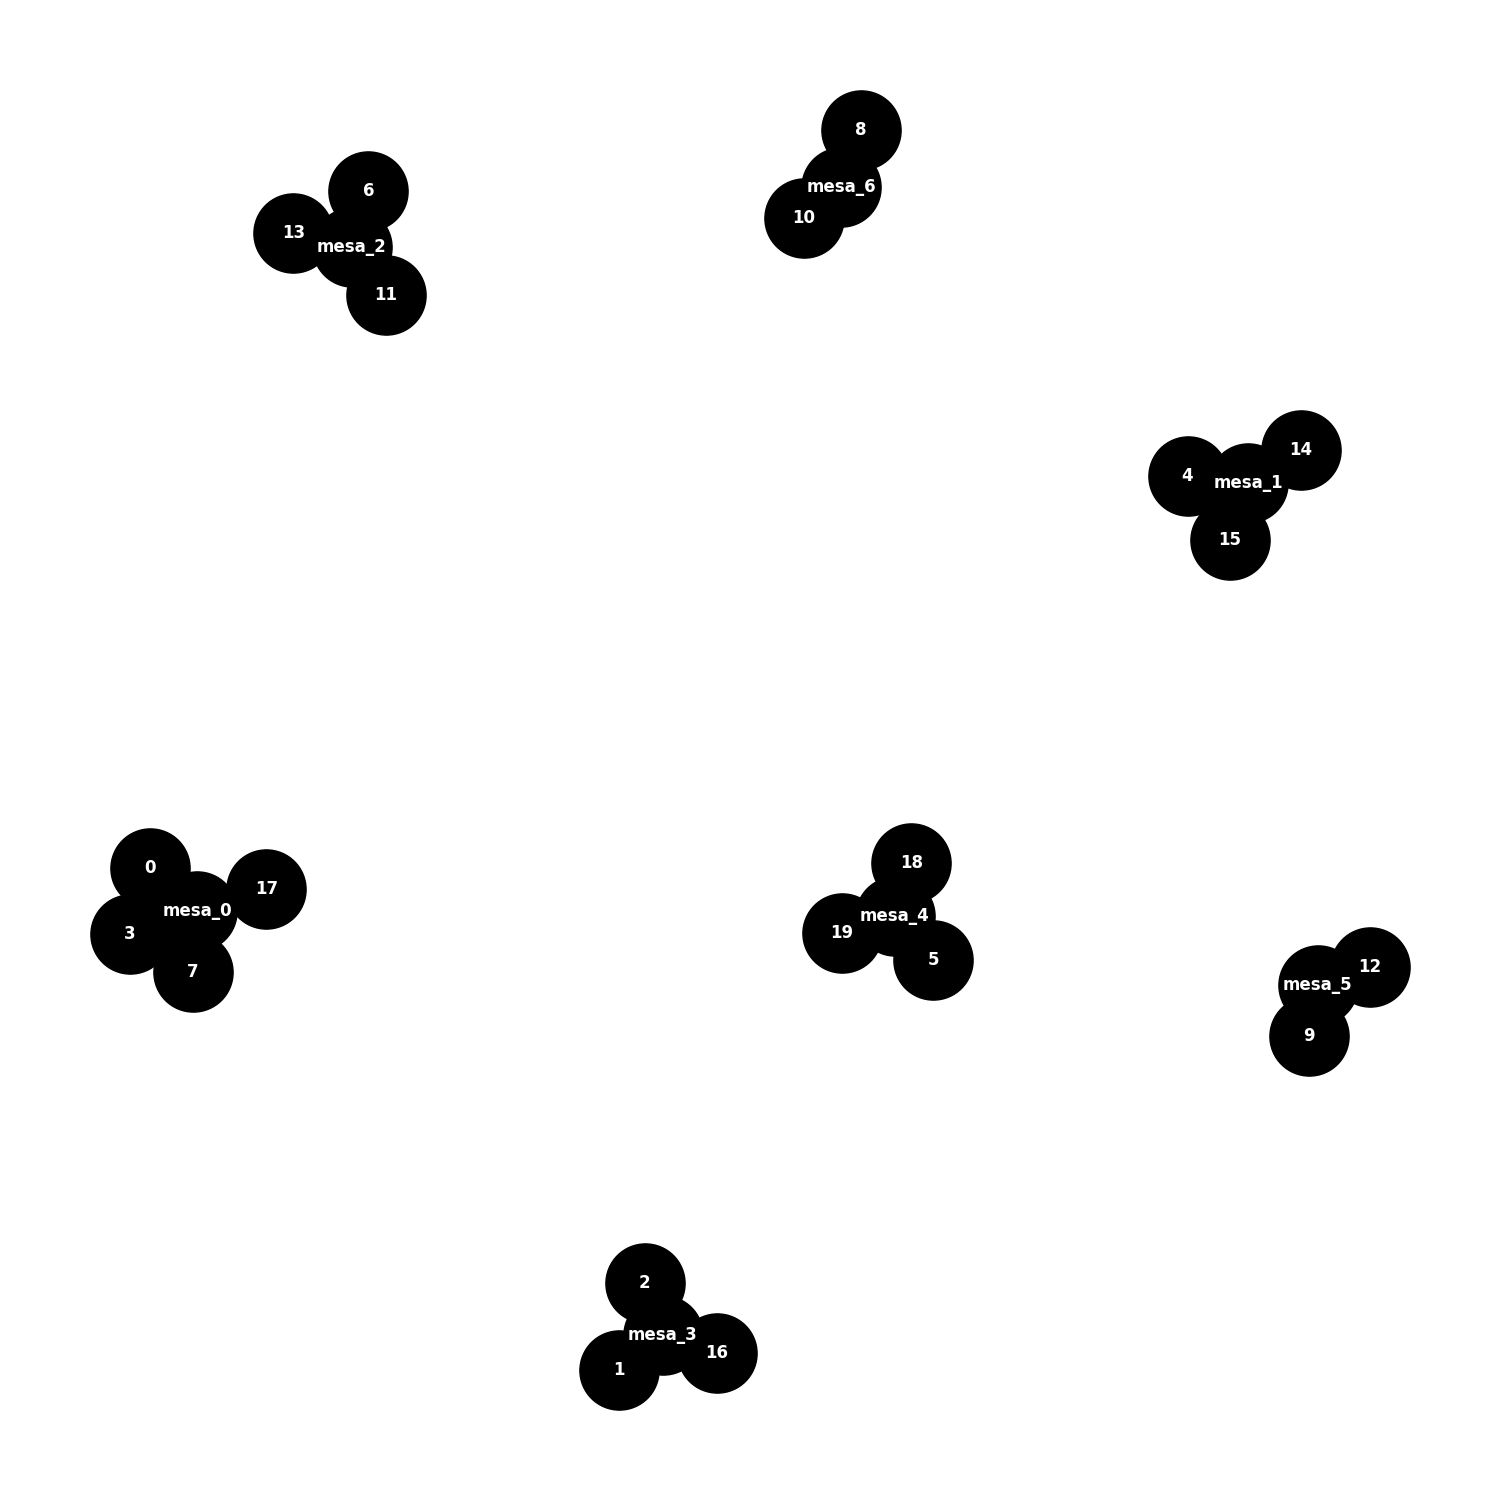
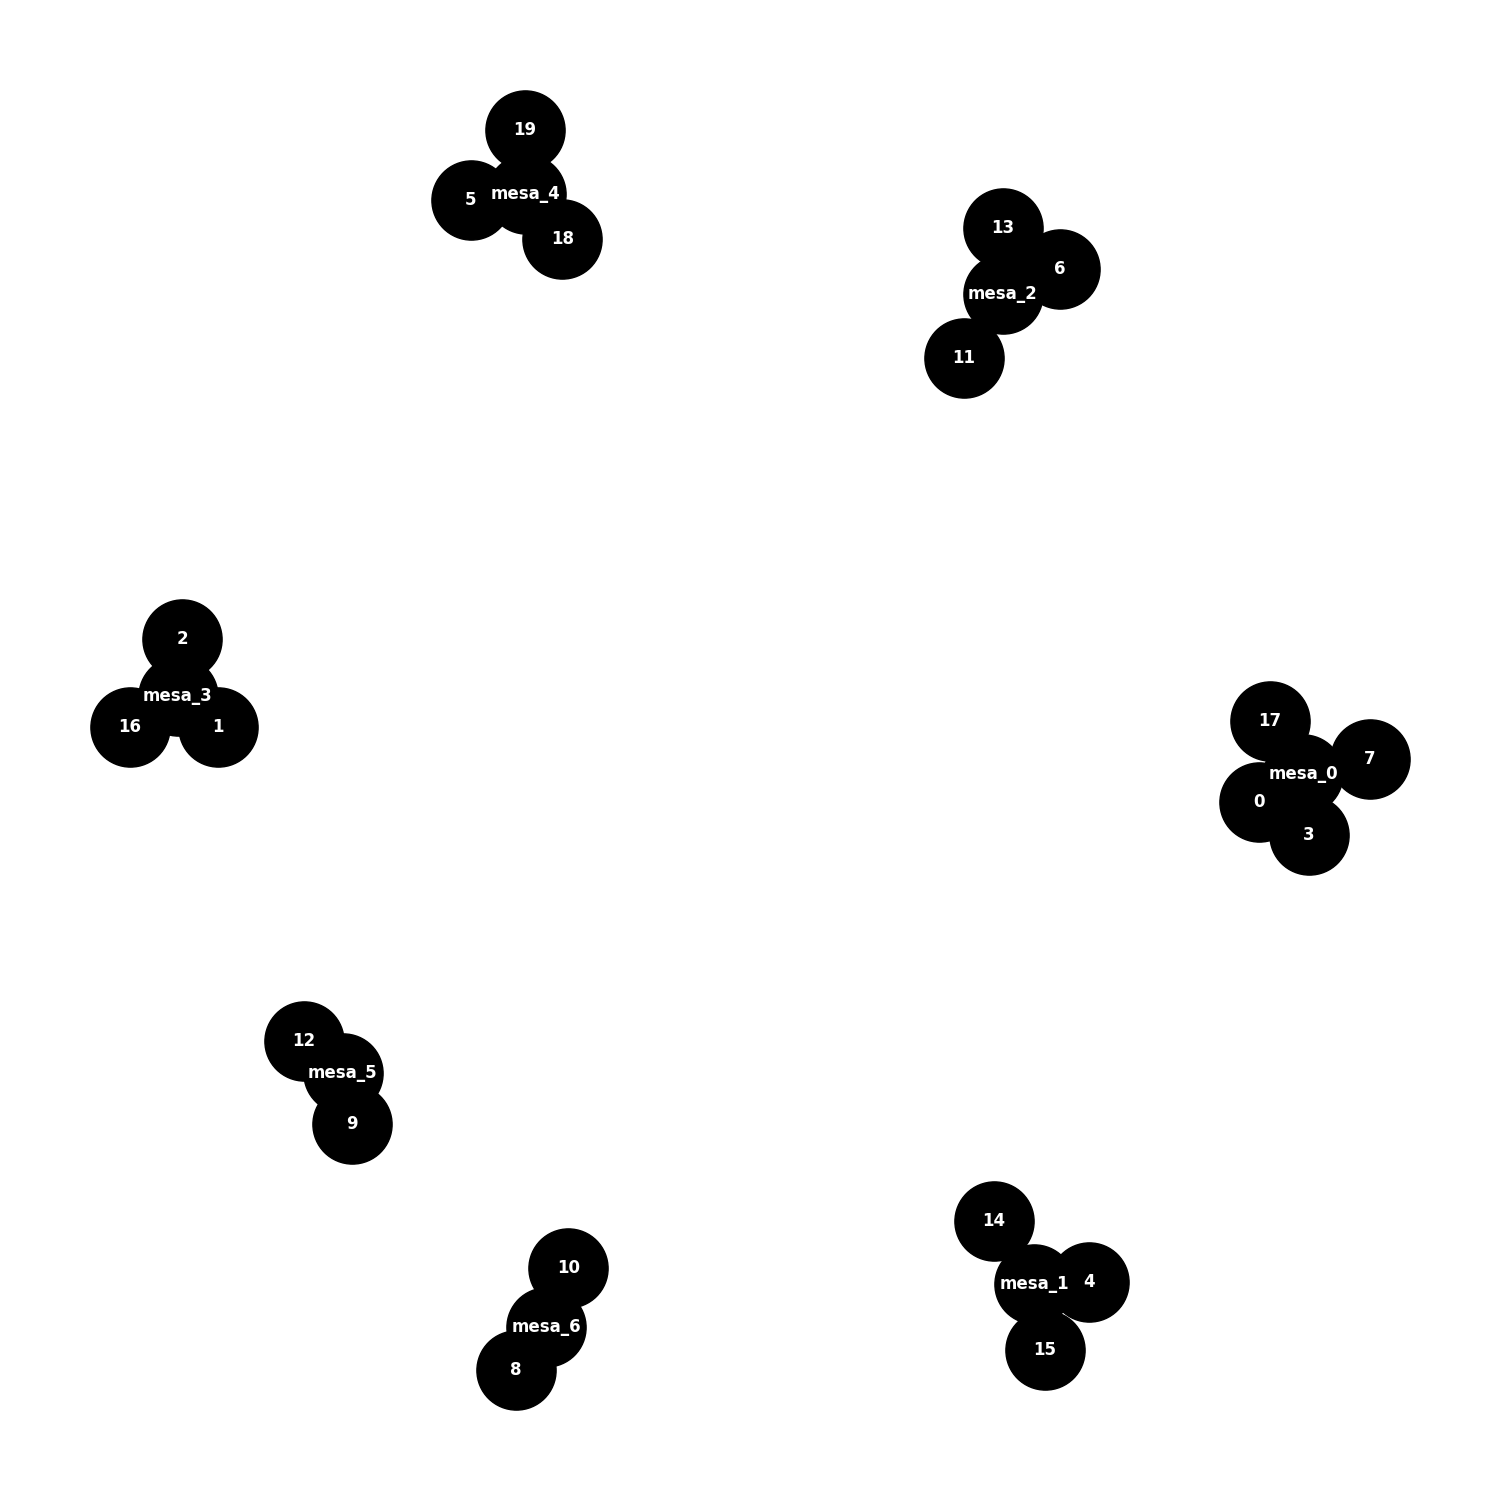
adicionando classe, remoção do networkx(nas funções), e plots

diff --git a/src/function_movimento_vizinhanca.py b/src/function_movimento_vizinhanca.py
@@ -1,38 +1,41 @@
 from function_problem import *
 
-def swap (grafo,matrix_afinidade,ja_passou_mesa):
+def swap (grafo,matrix_afinidade):
   copia = grafo.copy()
   melhor_solucao = 0
+  ja_passou_mesa=[]
   ja_passou= []
-  for i in list(copia.nodes()):
+  for i in list(copia.nodes):
     if (not isinstance(i, str)):
       break
     for j in nodes_edg(i,copia):
-      mesa_1 = list(copia.neighbors(i))
+      mesa_1 = list(copia.neighbors[i])
       removido1 = mesa_1.pop(mesa_1.index(j))
-      if (removido1+0.1 in ja_passou_mesa):
-        afinidade_mesa_1 = ja_passou_mesa[ja_passou_mesa.index(removido1+0.1)+1]
+      # afinidade_mesa_1 = afin_mesa_local(removido1,mesa_1,matrix_afinidade)
+      if ((removido1,mesa_1) in ja_passou_mesa):
+        afinidade_mesa_1 = ja_passou_mesa[ja_passou_mesa.index((removido1,mesa_1))+1]
       else:
         afinidade_mesa_1 = afin_mesa_local(removido1,mesa_1,matrix_afinidade)
-        ja_passou_mesa.append(removido1+0.1)
+        ja_passou_mesa.append((removido1,mesa_1))
         ja_passou_mesa.append(afinidade_mesa_1)
 
-      for k in list(copia.nodes()):
+      for k in list(copia.nodes):
         if (not isinstance(k, str)):
           break
         if (i==k):
           continue
+        mesa_2 = list(copia.neighbors[k])
         for t in nodes_edg(k,copia):
           if ((j,t) in ja_passou or (t,j) in ja_passou):
             continue
           beneficio = 0
-          mesa_2 = list(copia.neighbors(k))
           removido2 = mesa_2.pop(mesa_2.index(t))
-          if (removido2+0.1 in ja_passou_mesa):
-            afinidade_mesa_2 = ja_passou_mesa[ja_passou_mesa.index(removido2+0.1)+1]
+          # afinidade_mesa_2 = afin_mesa_local(removido2,mesa_2,matrix_afinidade)
+          if ((removido2,mesa_2) in ja_passou_mesa):
+            afinidade_mesa_2 = ja_passou_mesa[ja_passou_mesa.index((removido2,mesa_2))+1]
           else:  
             afinidade_mesa_2 = afin_mesa_local(removido2,mesa_2,matrix_afinidade)
-            ja_passou_mesa.append(removido2+0.1)
+            ja_passou_mesa.append((removido2,mesa_2))
             ja_passou_mesa.append(afinidade_mesa_2)
 
 
@@ -48,21 +51,25 @@ def swap (grafo,matrix_afinidade,ja_passou_mesa):
   if(melhor_solucao):
     copia.remove_edge(melhor_indice[0],melhor_indice[1])
     copia.remove_edge(melhor_indice[2],melhor_indice[3])
-    ja_passou_mesa.pop(ja_passou_mesa.index(melhor_indice[1]+0.1)+1)
-    ja_passou_mesa.pop(ja_passou_mesa.index(melhor_indice[1]+0.1))
-    ja_passou_mesa.pop(ja_passou_mesa.index(melhor_indice[3]+0.1)+1)
-    ja_passou_mesa.pop(ja_passou_mesa.index(melhor_indice[3]+0.1))
+
+    # ja_passou_mesa.pop(ja_passou_mesa.index(melhor_indice[1]+0.1)+1)
+    # ja_passou_mesa.pop(ja_passou_mesa.index(melhor_indice[1]+0.1))
+    # ja_passou_mesa.pop(ja_passou_mesa.index(melhor_indice[3]+0.1)+1)
+    # ja_passou_mesa.pop(ja_passou_mesa.index(melhor_indice[3]+0.1))
     
     copia.add_edge(melhor_indice[0],melhor_indice[3])
-    copia.add_edge(melhor_indice[2],melhor_indice[1]) 
-    ja_passou_mesa.append(melhor_indice[1]+0.1)
-    ja_passou_mesa.append(afin_mesa_local(melhor_indice[1],list(copia.neighbors(melhor_indice[0])),matrix_afinidade))
-    ja_passou_mesa.append(melhor_indice[3]+0.1)
-    ja_passou_mesa.append(afin_mesa_local(melhor_indice[3],list(copia.neighbors(melhor_indice[2])),matrix_afinidade))
+    copia.add_edge(melhor_indice[2],melhor_indice[1])
 
-    return copia.copy(),ja_passou_mesa
+    # ja_passou_mesa.append(melhor_indice[1]+0.1)
+    # ja_passou_mesa.append(afin_mesa_local(melhor_indice[1],list(copia.neighbors[melhor_indice[0]]),matrix_afinidade))
+    # ja_passou_mesa.append(melhor_indice[3]+0.1)
+    # ja_passou_mesa.append(afin_mesa_local(melhor_indice[3],list(copia.neighbors[melhor_indice[2]]),matrix_afinidade))
+
+
+
+    return copia.copy()
   else:
-    return copia.copy(),ja_passou_mesa
+    return copia.copy()
 
 
 
@@ -70,17 +77,23 @@ def Reinsertion (grafo,matrix_afinidade):
   copia = grafo.copy()
   melhor_solucao = 0
   ja_passou = []
-  for i in list(copia.nodes()):
+  for i in list(copia.nodes):
     if (not isinstance(i, str)):
       break
     if (get_quantidade_alocada(i,copia)-1<int(copia.nodes[i]["menorCadeira"])):
       continue
     for j in nodes_edg(i,copia):
-      mesa_1 = list(copia.neighbors(i))
+      mesa_1 = list(copia.neighbors[i])
       removido1 = mesa_1.pop(mesa_1.index(j))
-      afinidade_na_mesa = afin_mesa_local(removido1,mesa_1,matrix_afinidade)
+      afinidade_mesa_1 = afin_mesa_local(removido1,mesa_1,matrix_afinidade)
+      # if (removido1+0.1 in ja_passou_mesa):
+      #   afinidade_mesa_1 = ja_passou_mesa[ja_passou_mesa.index(removido1+0.1)+1]
+      # else:
+      #   afinidade_mesa_1 = afin_mesa_local(removido1,mesa_1,matrix_afinidade)
+      #   ja_passou_mesa.append(removido1+0.1)
+      #   ja_passou_mesa.append(afinidade_mesa_1)
 
-      for k in list(copia.nodes()):
+      for k in list(copia.nodes):
         if (not isinstance(k, str)):
           break
         if (i==k):
@@ -90,8 +103,8 @@ def Reinsertion (grafo,matrix_afinidade):
 
         beneficio = 0
 
-        mesa_2 = list(copia.neighbors(k))
-        beneficio = beneficio - afinidade_na_mesa + afin_mesa_local(removido1,mesa_2,matrix_afinidade)
+        mesa_2 = list(copia.neighbors[k])
+        beneficio = beneficio - afinidade_mesa_1 + afin_mesa_local(removido1,mesa_2,matrix_afinidade)
         
 
 
@@ -101,8 +114,14 @@ def Reinsertion (grafo,matrix_afinidade):
 
   if(melhor_solucao):
     copia.remove_edge(melhor_indice[0],melhor_indice[1])
-    
+
+    # ja_passou_mesa.pop(ja_passou_mesa.index(melhor_indice[1]+0.1)+1)
+    # ja_passou_mesa.pop(ja_passou_mesa.index(melhor_indice[1]+0.1))
+
     copia.add_edge(melhor_indice[2],melhor_indice[1])
+
+    # ja_passou_mesa.append(melhor_indice[1]+0.1)
+    # ja_passou_mesa.append(afin_mesa_local(melhor_indice[1],list(copia.neighbors[melhor_indice[0]]),matrix_afinidade))
 
     # print(f"melhor solução encontrada = {solution(copia,matrix_afinidade)}")
     return copia.copy()
@@ -111,19 +130,13 @@ def Reinsertion (grafo,matrix_afinidade):
 
 
 
-
-
-
-
-
 def Mesa_furada(grafo,ja_sentou,matrix_afinidade,quant_convidados):
   copia_sentados = ja_sentou.copy()
   copia = grafo.copy()
   beneficio = solution(copia,matrix_afinidade)
-  for i in list(copia.nodes()):
+  for i in list(copia.nodes):
     em_pe = nodes_edg(i,copia)
-    copia.remove_node(i)
-    copia.add_node(i)
+    copia.neighbors[i] = []
 
     for j in em_pe:
       copia_sentados.pop(copia_sentados.index(j))
@@ -151,7 +164,7 @@ def Mesa_furada(grafo,ja_sentou,matrix_afinidade,quant_convidados):
       for i in em_pe:
         if (i in copia_sentados):
           continue
-        for j in list(copia.nodes()):
+        for j in list(copia.nodes):
           if (not isinstance(j,str)):
             break
           afinidade_na_mesa = afin_mesa_local(i,nodes_edg(j,copia),matrix_afinidade)

diff --git a/src/main.py b/src/main.py
@@ -135,14 +135,39 @@ for i in instancias:
   
   linha_ils.append([otimo_list_ils[interacao],ils_List[interacao],tempo_list_ils[interacao],gap_list_ils[interacao]])
 
+  heuristica = nx.Graph()
+  vnd = nx.Graph()
+  ils = nx.Graph()
+
+  for i in mesa.nodes:
+    heuristica.add_node(i)
+    for j in mesa.neighbors[i]:
+      heuristica.add_edge(i,j)
+  
+  for i in solucao_final_VND.nodes:
+    vnd.add_node(i)
+    for j in solucao_final_VND.neighbors[i]:
+      vnd.add_edge(i,j)
+  
+  for i in result_ils.nodes:
+    ils.add_node(i)
+    for j in result_ils.neighbors[i]:
+      ils.add_edge(i,j)
+
+
   plt.figure(figsize=(15, 15))
-  nx.draw(solucao_final_VND ,with_labels=True,node_color="black",node_size=3250,width=1.6, font_color="white",font_weight='bold' )
-  plt.savefig(f'../plots/solutions/instancia_{interacao}.png', format='png')
+  nx.draw(heuristica ,with_labels=True,node_color="black",node_size=3250,width=1.6, font_color="white",font_weight='bold' )
+  plt.savefig(f'../plots/heuristica/instancia_{interacao}.png', format='png')
   plt.close()
 
   plt.figure(figsize=(15, 15))
-  nx.draw(mesa ,with_labels=True,node_color="black",node_size=3250,width=1.6, font_color="white",font_weight='bold' )
-  plt.savefig(f'../plots/heuristica/instancia_{interacao}.png', format='png')
+  nx.draw(vnd ,with_labels=True,node_color="black",node_size=3250,width=1.6, font_color="white",font_weight='bold' )
+  plt.savefig(f'../plots/vnd/instancia_{interacao}.png', format='png')
+  plt.close()
+
+  plt.figure(figsize=(15, 15))
+  nx.draw(ils ,with_labels=True,node_color="black",node_size=3250,width=1.6, font_color="white",font_weight='bold' )
+  plt.savefig(f'../plots/ils/instancia_{interacao}.png', format='png')
   plt.close()
 
   index.append(f"instancia_{interacao}")

diff --git a/src/function_problem.py b/src/function_problem.py
@@ -1,14 +1,13 @@
-import networkx as nx
 from function_tratamentos import *
-
+from classes import *
 
 def init_networkx (quant_mesas,lista_limite_mesa):
 
-    mesa = nx.Graph()
+    mesa = Graph()
 
     for i in range(quant_mesas):
-        mesa.add_node(f"mesa_{i}",menorCadeira = lista_limite_mesa[i][0], maiorCadeira = lista_limite_mesa[i][1])
-    
+        mesa.add_node(f"mesa_{i}",{"menorCadeira" : lista_limite_mesa[i][0], "maiorCadeira" : lista_limite_mesa[i][1]})
+        mesa.neighbors[f"mesa_{i}"] = []
     return mesa.copy()
 
 def matrizAfinidade(quant_convidados,afinidade,pessoas,passei=[]):
@@ -34,7 +33,7 @@ def matrizAfinidade(quant_convidados,afinidade,pessoas,passei=[]):
 
 
 def senta_Dupla (mesa,afin_max,pessoas,afinidade,ja_sentou):
-    for i in list(mesa):
+    for i in list(mesa.nodes):
         if (int(mesa.nodes[i]["menorCadeira"]/2)):
           while(1):
               maior = afin_max.pop(0)
@@ -70,7 +69,7 @@ def senta_Dupla (mesa,afin_max,pessoas,afinidade,ja_sentou):
 
 def senta_pessoa(ja_sentou ,quant_convidados,mesa,matrix_afinidade):
     while(len(ja_sentou)<quant_convidados):
-        for i in list(mesa):
+        for i in list(mesa.nodes):
             maior_soma = -999
             if (not isinstance(i, str)):
                 break
@@ -81,6 +80,8 @@ def senta_pessoa(ja_sentou ,quant_convidados,mesa,matrix_afinidade):
                     else:
                         soma = 0
                         for k in (nodes_edg(i,mesa)):
+                            if (not matrix_afinidade[j][k]):
+                                continue
                             soma += matrix_afinidade[j][k]
 
                         if(soma> maior_soma):

diff --git a/src/meta_heuristica.py b/src/meta_heuristica.py
@@ -6,7 +6,7 @@ def Perturbacao(grafo,nivel = 1):
   copia = grafo.copy()
   for i in range (nivel):
     lista_mesas = []
-    for i in list(copia.nodes()):
+    for i in list(copia.nodes):
       if (not isinstance(i, str)):
         break
       elif (get_quantidade_alocada(i,copia)-1<int(copia.nodes[i]["menorCadeira"])):
@@ -38,28 +38,29 @@ def ILS (execucoes,vnd_teste,matrix_afinidade,ja_sentou,quant_convidados,ja_pass
   melhor_dos_melhores = 0
   
   while(execucoes > 0):
-    numero_melhoras = 50
+    numero_melhoras = 75
     copia_vnd_teste = vnd_teste.copy()
     beneficio = solution(copia_vnd_teste,matrix_afinidade)
 
     while(numero_melhoras > 0):
 
       if numero_melhoras <=30:
-        perturbado_ = Perturbacao(copia_vnd_teste,17)
+        perturbado_ = Perturbacao(copia_vnd_teste,19)
       else:
         perturbado_ = Perturbacao(copia_vnd_teste,4)
 
       solution_,ja_passou_mesa = VND (perturbado_,matrix_afinidade,ja_sentou,quant_convidados,ja_passou_mesa,r=2)
       beneficio_encontrado = solution(solution_,matrix_afinidade)
       if(beneficio_encontrado > beneficio):
-        # print(beneficio_encontrado)
         beneficio = beneficio_encontrado
         copia_vnd_teste = solution_.copy()
-        numero_melhoras = 50
+        # numero_melhoras = 75
       else:
         numero_melhoras-=1
     if (beneficio > melhor_dos_melhores):
       melhor_dos_melhores = beneficio
       melhor_no = copia_vnd_teste.copy()
     execucoes -=1
+  
+  print("Melhor solução encontrada: ",melhor_dos_melhores)
   return melhor_no.copy()

diff --git a/src/function_tratamentos.py b/src/function_tratamentos.py
@@ -7,24 +7,14 @@ def get_mesa(indice,grafo):
         if (n.count(indice)):
             return n
             
-# def nodes_edg(nome_mesa,grafo):
-#     return list(grafo.neighbors(nome_mesa))
-
   
 def nodes_edg(nome_mesa,grafo):
-    mesa_brut = list(grafo.edges)
-    lista_nodes = []
-    for n in list(mesa_brut):
-        if (n.count(nome_mesa)):
-            lista_nodes.append(n[1])
-        if (isinstance(n, int)):
-            break
-    return lista_nodes
+    return list(grafo.neighbors[nome_mesa])
 
 
 def solution(sol, matrix_afinidade):
     soma = 0
-    for i in list(sol):
+    for i in list(sol.nodes):
         visitados = []
         for j in nodes_edg(i,sol):
             for k in nodes_edg(i,sol):

diff --git a/src/vnd.py b/src/vnd.py
@@ -9,7 +9,7 @@ def VND (mesa,matrix_afinidade,ja_sentou,quant_convidados,ja_passou_mesa = [], r
     if (k == 1):
       copia_VND = Reinsertion(mesa,matrix_afinidade)
     elif (k==2):
-      copia_VND,ja_passou_mesa = swap(mesa,matrix_afinidade,ja_passou_mesa)
+      copia_VND = swap(mesa,matrix_afinidade)
     elif (k==3):
       copia_VND = Mesa_furada(mesa,ja_sentou,matrix_afinidade,quant_convidados)
 
@@ -22,5 +22,5 @@ def VND (mesa,matrix_afinidade,ja_sentou,quant_convidados,ja_passou_mesa = [], r
 
     else:
       k +=1
-      
+
   return mesa.copy(),ja_passou_mesa

diff --git a/src/classes.py b/src/classes.py
@@ -1,0 +1,21 @@
+from copy import deepcopy
+
+
+class Graph:
+  def __init__(self,nodes = {}, neighbors = {}):
+    self.nodes = nodes
+    self.neighbors = neighbors
+
+  def add_node(self,no,value = {}):
+    self.nodes[no] = value
+
+  def add_edge(self,no1,no2):
+    self.neighbors[no1].append(no2)
+  
+  def degree(self,no):
+    return len(self.neighbors[no])
+  def remove_edge(self,no,ind):
+    self.neighbors[no].pop(self.neighbors[no].index(ind))
+
+  def copy(self):
+    return deepcopy(self)
